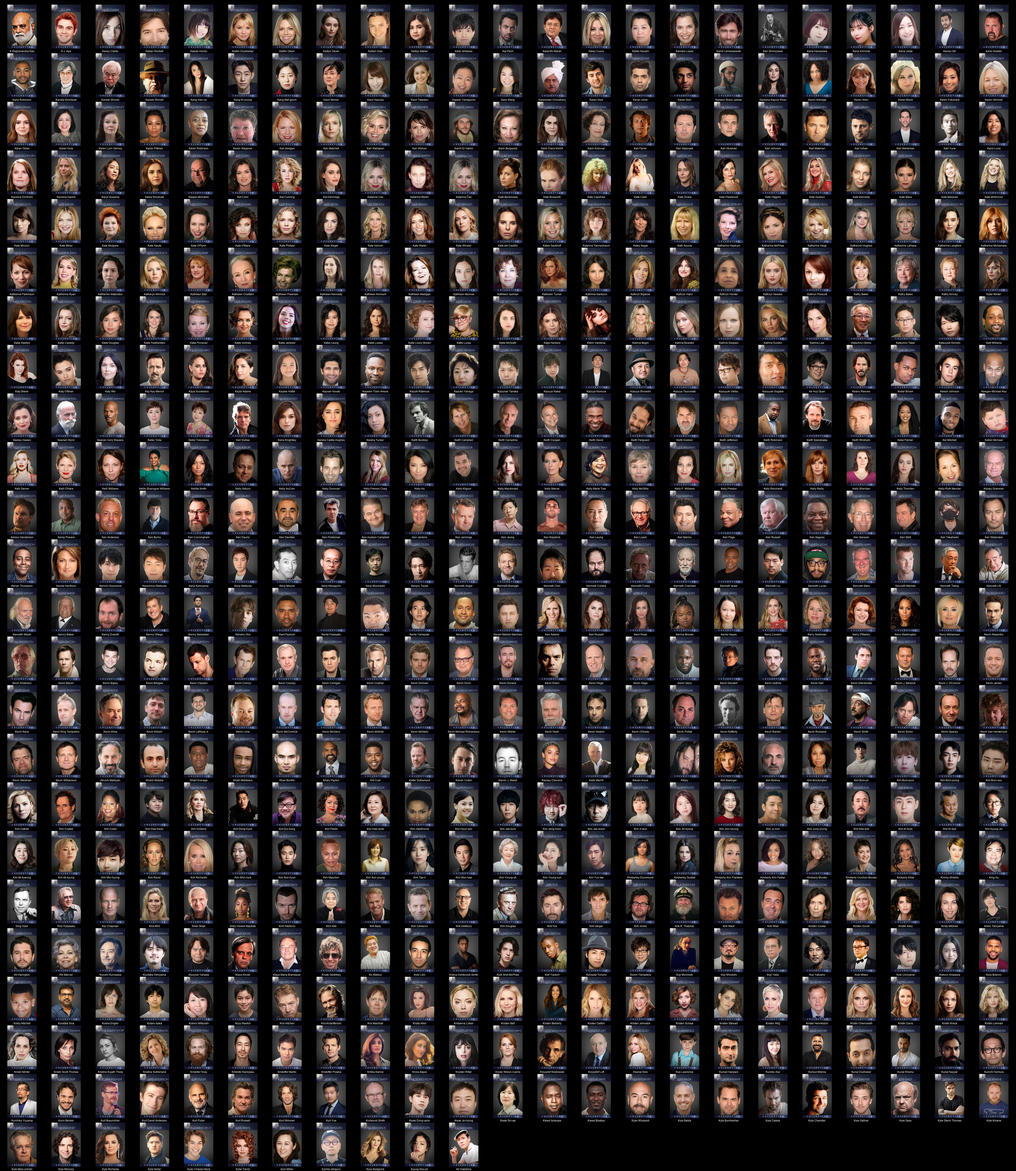
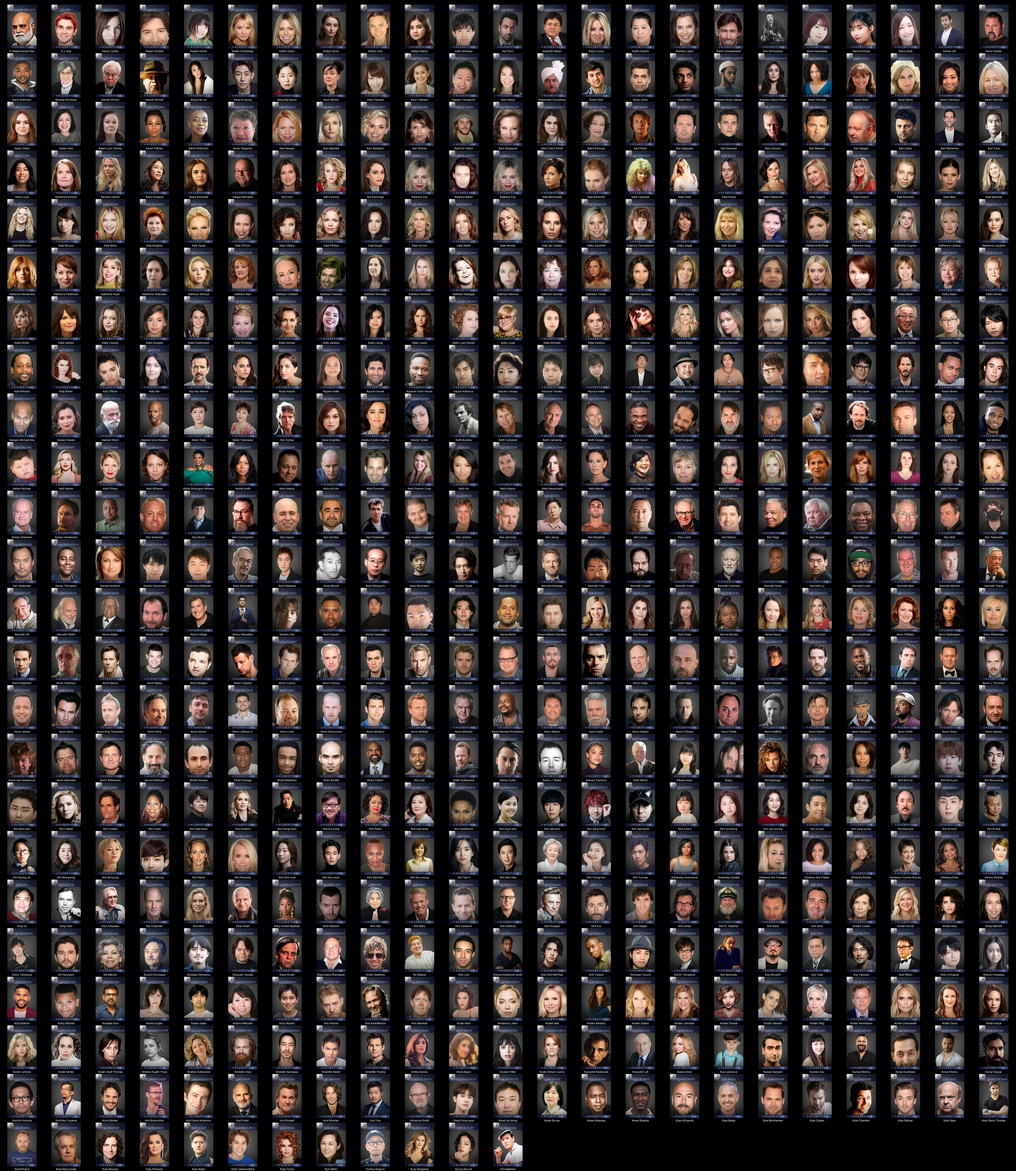
chore: sync posters & docs [transparent,diiivoycolor] — 2025-09-21 21:41

Changed region(s): [[0.0, 0.0934, 0.9948, 1.0]]

diff --git a/README.md b/README.md
@@ -1,4 +1,4 @@
-# Kometa People Images - DIIIVOY Color (diiivoycolor) (11153 Images)
+# Kometa People Images - DIIIVOY Color (diiivoycolor) (11157 Images)
 
 <details><summary><a href="'">' (1 Images)</a></summary>
 
@@ -2195,7 +2195,7 @@
 * [Cédric Klapisch](https://raw.githubusercontent.com/kometa-team/People-Images-diiivoycolor/master/C/Images/C%C3%A9dric%20Klapisch.jpg)
 * [Céline Sciamma](https://raw.githubusercontent.com/kometa-team/People-Images-diiivoycolor/master/C/Images/C%C3%A9line%20Sciamma.jpg)
 </details>
-<details><summary><a href="D">D (712 Images)</a></summary>
+<details><summary><a href="D">D (713 Images)</a></summary>
 
 * [D. David Morin](https://raw.githubusercontent.com/kometa-team/People-Images-diiivoycolor/master/D/Images/D.%20David%20Morin.jpg)
 * [D.A. Obahor](https://raw.githubusercontent.com/kometa-team/People-Images-diiivoycolor/master/D/Images/D.A.%20Obahor.jpg)
@@ -2759,6 +2759,7 @@
 * [Diogo Morgado](https://raw.githubusercontent.com/kometa-team/People-Images-diiivoycolor/master/D/Images/Diogo%20Morgado.jpg)
 * [Dion Graham](https://raw.githubusercontent.com/kometa-team/People-Images-diiivoycolor/master/D/Images/Dion%20Graham.jpg)
 * [Diora Baird](https://raw.githubusercontent.com/kometa-team/People-Images-diiivoycolor/master/D/Images/Diora%20Baird.jpg)
+* [Dirch Passer](https://raw.githubusercontent.com/kometa-team/People-Images-diiivoycolor/master/D/Images/Dirch%20Passer.jpg)
 * [Dirk Benedict](https://raw.githubusercontent.com/kometa-team/People-Images-diiivoycolor/master/D/Images/Dirk%20Benedict.jpg)
 * [Dirk Blocker](https://raw.githubusercontent.com/kometa-team/People-Images-diiivoycolor/master/D/Images/Dirk%20Blocker.jpg)
 * [Divian Ladwa](https://raw.githubusercontent.com/kometa-team/People-Images-diiivoycolor/master/D/Images/Divian%20Ladwa.jpg)
@@ -5709,7 +5710,7 @@
 * [Jürgen Vogel](https://raw.githubusercontent.com/kometa-team/People-Images-diiivoycolor/master/J/Images/J%C3%BCrgen%20Vogel.jpg)
 * [Jūzō Itami](https://raw.githubusercontent.com/kometa-team/People-Images-diiivoycolor/master/J/Images/J%C5%ABz%C5%8D%20Itami.jpg)
 </details>
-<details><summary><a href="K">K (540 Images)</a></summary>
+<details><summary><a href="K">K (541 Images)</a></summary>
 
 * [K Raghavendra Rao](https://raw.githubusercontent.com/kometa-team/People-Images-diiivoycolor/master/K/Images/K%20Raghavendra%20Rao.jpg)
 * [K.J. Apa](https://raw.githubusercontent.com/kometa-team/People-Images-diiivoycolor/master/K/Images/K.J.%20Apa.jpg)
@@ -5776,6 +5777,7 @@
 * [Karl Glusman](https://raw.githubusercontent.com/kometa-team/People-Images-diiivoycolor/master/K/Images/Karl%20Glusman.jpg)
 * [Karl Johnson](https://raw.githubusercontent.com/kometa-team/People-Images-diiivoycolor/master/K/Images/Karl%20Johnson.jpg)
 * [Karl Makinen](https://raw.githubusercontent.com/kometa-team/People-Images-diiivoycolor/master/K/Images/Karl%20Makinen.jpg)
+* [Karl Stegger](https://raw.githubusercontent.com/kometa-team/People-Images-diiivoycolor/master/K/Images/Karl%20Stegger.jpg)
 * [Karl Urban](https://raw.githubusercontent.com/kometa-team/People-Images-diiivoycolor/master/K/Images/Karl%20Urban.jpg)
 * [Karl Werleman](https://raw.githubusercontent.com/kometa-team/People-Images-diiivoycolor/master/K/Images/Karl%20Werleman.jpg)
 * [Karl Yune](https://raw.githubusercontent.com/kometa-team/People-Images-diiivoycolor/master/K/Images/Karl%20Yune.jpg)
@@ -8201,7 +8203,7 @@
 * [Owen Teale](https://raw.githubusercontent.com/kometa-team/People-Images-diiivoycolor/master/O/Images/Owen%20Teale.jpg)
 * [Owen Wilson](https://raw.githubusercontent.com/kometa-team/People-Images-diiivoycolor/master/O/Images/Owen%20Wilson.jpg)
 </details>
-<details><summary><a href="P">P (437 Images)</a></summary>
+<details><summary><a href="P">P (439 Images)</a></summary>
 
 * [P.H. Moriarty](https://raw.githubusercontent.com/kometa-team/People-Images-diiivoycolor/master/P/Images/P.H.%20Moriarty.jpg)
 * [P.J. Byrne](https://raw.githubusercontent.com/kometa-team/People-Images-diiivoycolor/master/P/Images/P.J.%20Byrne.jpg)
@@ -8347,6 +8349,7 @@
 * [Paul Greengrass](https://raw.githubusercontent.com/kometa-team/People-Images-diiivoycolor/master/P/Images/Paul%20Greengrass.jpg)
 * [Paul Gross](https://raw.githubusercontent.com/kometa-team/People-Images-diiivoycolor/master/P/Images/Paul%20Gross.jpg)
 * [Paul Guilfoyle](https://raw.githubusercontent.com/kometa-team/People-Images-diiivoycolor/master/P/Images/Paul%20Guilfoyle.jpg)
+* [Paul Hagen](https://raw.githubusercontent.com/kometa-team/People-Images-diiivoycolor/master/P/Images/Paul%20Hagen.jpg)
 * [Paul Haggis](https://raw.githubusercontent.com/kometa-team/People-Images-diiivoycolor/master/P/Images/Paul%20Haggis.jpg)
 * [Paul Henreid](https://raw.githubusercontent.com/kometa-team/People-Images-diiivoycolor/master/P/Images/Paul%20Henreid.jpg)
 * [Paul Herman](https://raw.githubusercontent.com/kometa-team/People-Images-diiivoycolor/master/P/Images/Paul%20Herman.jpg)
@@ -8618,6 +8621,7 @@
 * [Pooja Hegde](https://raw.githubusercontent.com/kometa-team/People-Images-diiivoycolor/master/P/Images/Pooja%20Hegde.jpg)
 * [Pooky Quesnel](https://raw.githubusercontent.com/kometa-team/People-Images-diiivoycolor/master/P/Images/Pooky%20Quesnel.jpg)
 * [Poppy Corby-Tuech](https://raw.githubusercontent.com/kometa-team/People-Images-diiivoycolor/master/P/Images/Poppy%20Corby-Tuech.jpg)
+* [Poul Bundgaard](https://raw.githubusercontent.com/kometa-team/People-Images-diiivoycolor/master/P/Images/Poul%20Bundgaard.jpg)
 * [Powers Boothe](https://raw.githubusercontent.com/kometa-team/People-Images-diiivoycolor/master/P/Images/Powers%20Boothe.jpg)
 * [Prabhas](https://raw.githubusercontent.com/kometa-team/People-Images-diiivoycolor/master/P/Images/Prabhas.jpg)
 * [Prabhu Deva](https://raw.githubusercontent.com/kometa-team/People-Images-diiivoycolor/master/P/Images/Prabhu%20Deva.jpg)

diff --git a/P/README.md b/P/README.md
@@ -1,4 +1,4 @@
-# Kometa People Images - DIIIVOY Color (diiivoycolor) - P (437 Images)
+# Kometa People Images - DIIIVOY Color (diiivoycolor) - P (439 Images)
 ![Grid](grid.jpg)
 
 * [P.H. Moriarty](https://raw.githubusercontent.com/kometa-team/People-Images-diiivoycolor/master/P/Images/P.H.%20Moriarty.jpg)
@@ -145,6 +145,7 @@
 * [Paul Greengrass](https://raw.githubusercontent.com/kometa-team/People-Images-diiivoycolor/master/P/Images/Paul%20Greengrass.jpg)
 * [Paul Gross](https://raw.githubusercontent.com/kometa-team/People-Images-diiivoycolor/master/P/Images/Paul%20Gross.jpg)
 * [Paul Guilfoyle](https://raw.githubusercontent.com/kometa-team/People-Images-diiivoycolor/master/P/Images/Paul%20Guilfoyle.jpg)
+* [Paul Hagen](https://raw.githubusercontent.com/kometa-team/People-Images-diiivoycolor/master/P/Images/Paul%20Hagen.jpg)
 * [Paul Haggis](https://raw.githubusercontent.com/kometa-team/People-Images-diiivoycolor/master/P/Images/Paul%20Haggis.jpg)
 * [Paul Henreid](https://raw.githubusercontent.com/kometa-team/People-Images-diiivoycolor/master/P/Images/Paul%20Henreid.jpg)
 * [Paul Herman](https://raw.githubusercontent.com/kometa-team/People-Images-diiivoycolor/master/P/Images/Paul%20Herman.jpg)
@@ -416,6 +417,7 @@
 * [Pooja Hegde](https://raw.githubusercontent.com/kometa-team/People-Images-diiivoycolor/master/P/Images/Pooja%20Hegde.jpg)
 * [Pooky Quesnel](https://raw.githubusercontent.com/kometa-team/People-Images-diiivoycolor/master/P/Images/Pooky%20Quesnel.jpg)
 * [Poppy Corby-Tuech](https://raw.githubusercontent.com/kometa-team/People-Images-diiivoycolor/master/P/Images/Poppy%20Corby-Tuech.jpg)
+* [Poul Bundgaard](https://raw.githubusercontent.com/kometa-team/People-Images-diiivoycolor/master/P/Images/Poul%20Bundgaard.jpg)
 * [Powers Boothe](https://raw.githubusercontent.com/kometa-team/People-Images-diiivoycolor/master/P/Images/Powers%20Boothe.jpg)
 * [Prabhas](https://raw.githubusercontent.com/kometa-team/People-Images-diiivoycolor/master/P/Images/Prabhas.jpg)
 * [Prabhu Deva](https://raw.githubusercontent.com/kometa-team/People-Images-diiivoycolor/master/P/Images/Prabhu%20Deva.jpg)

diff --git a/D/README.md b/D/README.md
@@ -1,4 +1,4 @@
-# Kometa People Images - DIIIVOY Color (diiivoycolor) - D (712 Images)
+# Kometa People Images - DIIIVOY Color (diiivoycolor) - D (713 Images)
 ![Grid](grid.jpg)
 
 * [D. David Morin](https://raw.githubusercontent.com/kometa-team/People-Images-diiivoycolor/master/D/Images/D.%20David%20Morin.jpg)
@@ -563,6 +563,7 @@
 * [Diogo Morgado](https://raw.githubusercontent.com/kometa-team/People-Images-diiivoycolor/master/D/Images/Diogo%20Morgado.jpg)
 * [Dion Graham](https://raw.githubusercontent.com/kometa-team/People-Images-diiivoycolor/master/D/Images/Dion%20Graham.jpg)
 * [Diora Baird](https://raw.githubusercontent.com/kometa-team/People-Images-diiivoycolor/master/D/Images/Diora%20Baird.jpg)
+* [Dirch Passer](https://raw.githubusercontent.com/kometa-team/People-Images-diiivoycolor/master/D/Images/Dirch%20Passer.jpg)
 * [Dirk Benedict](https://raw.githubusercontent.com/kometa-team/People-Images-diiivoycolor/master/D/Images/Dirk%20Benedict.jpg)
 * [Dirk Blocker](https://raw.githubusercontent.com/kometa-team/People-Images-diiivoycolor/master/D/Images/Dirk%20Blocker.jpg)
 * [Divian Ladwa](https://raw.githubusercontent.com/kometa-team/People-Images-diiivoycolor/master/D/Images/Divian%20Ladwa.jpg)

diff --git a/K/README.md b/K/README.md
@@ -1,4 +1,4 @@
-# Kometa People Images - DIIIVOY Color (diiivoycolor) - K (540 Images)
+# Kometa People Images - DIIIVOY Color (diiivoycolor) - K (541 Images)
 ![Grid](grid.jpg)
 
 * [K Raghavendra Rao](https://raw.githubusercontent.com/kometa-team/People-Images-diiivoycolor/master/K/Images/K%20Raghavendra%20Rao.jpg)
@@ -66,6 +66,7 @@
 * [Karl Glusman](https://raw.githubusercontent.com/kometa-team/People-Images-diiivoycolor/master/K/Images/Karl%20Glusman.jpg)
 * [Karl Johnson](https://raw.githubusercontent.com/kometa-team/People-Images-diiivoycolor/master/K/Images/Karl%20Johnson.jpg)
 * [Karl Makinen](https://raw.githubusercontent.com/kometa-team/People-Images-diiivoycolor/master/K/Images/Karl%20Makinen.jpg)
+* [Karl Stegger](https://raw.githubusercontent.com/kometa-team/People-Images-diiivoycolor/master/K/Images/Karl%20Stegger.jpg)
 * [Karl Urban](https://raw.githubusercontent.com/kometa-team/People-Images-diiivoycolor/master/K/Images/Karl%20Urban.jpg)
 * [Karl Werleman](https://raw.githubusercontent.com/kometa-team/People-Images-diiivoycolor/master/K/Images/Karl%20Werleman.jpg)
 * [Karl Yune](https://raw.githubusercontent.com/kometa-team/People-Images-diiivoycolor/master/K/Images/Karl%20Yune.jpg)
